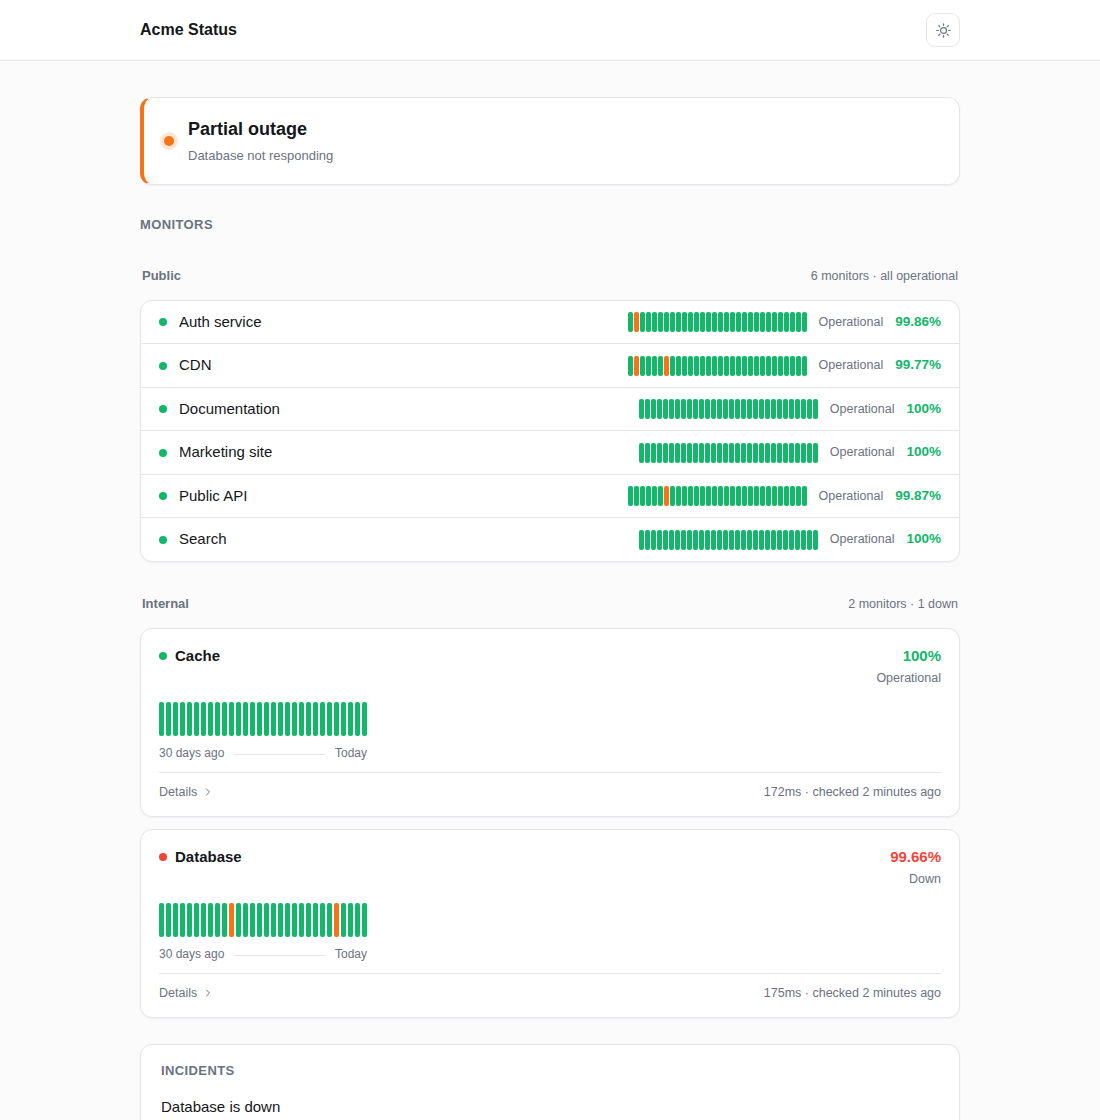
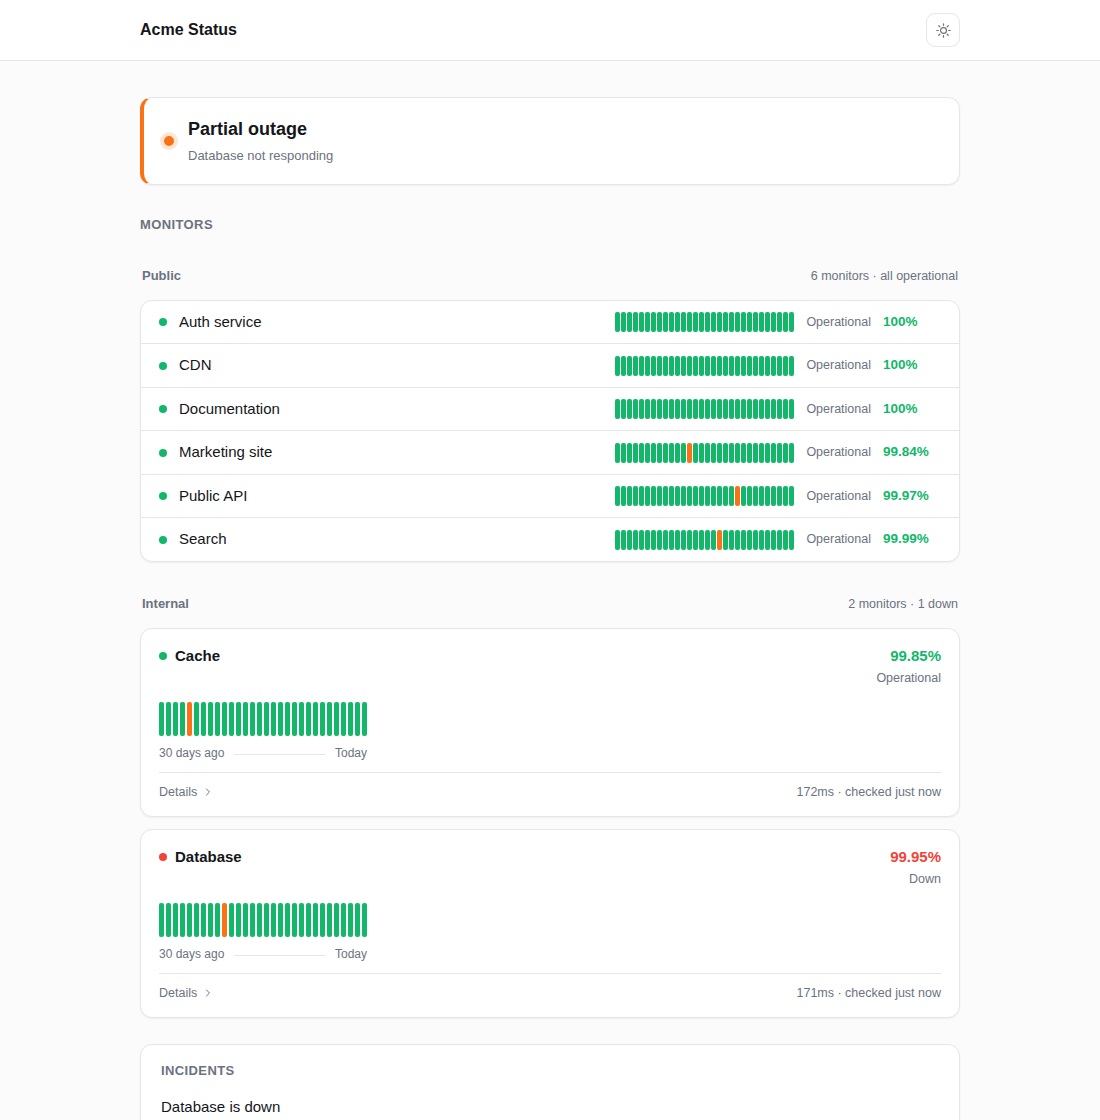
style: reserve the figure column, left align the digits
Keeps every strip ending at the same place, which a column that hugs its text
does not, while the digits start at the column's left edge so the gap before
them is the row's own 12px.

diff --git a/site/style.css b/site/style.css
@@ -357,10 +357,12 @@ main.shell {
   color: var(--muted);
 }
 
-/* No fixed width: a reserved box right-aligns its text, which leaves a wider
-   visible gap before a short figure than the row's own gap. */
+/* A reserved column keeps every strip ending at the same place. The digits
+   start at its left edge, so the gap before them is the row's own. */
 .compact-uptime {
   flex: none;
+  min-width: 58px;
+  text-align: left;
   font-variant-numeric: tabular-nums;
   font-weight: 600;
   font-size: 13.5px;
